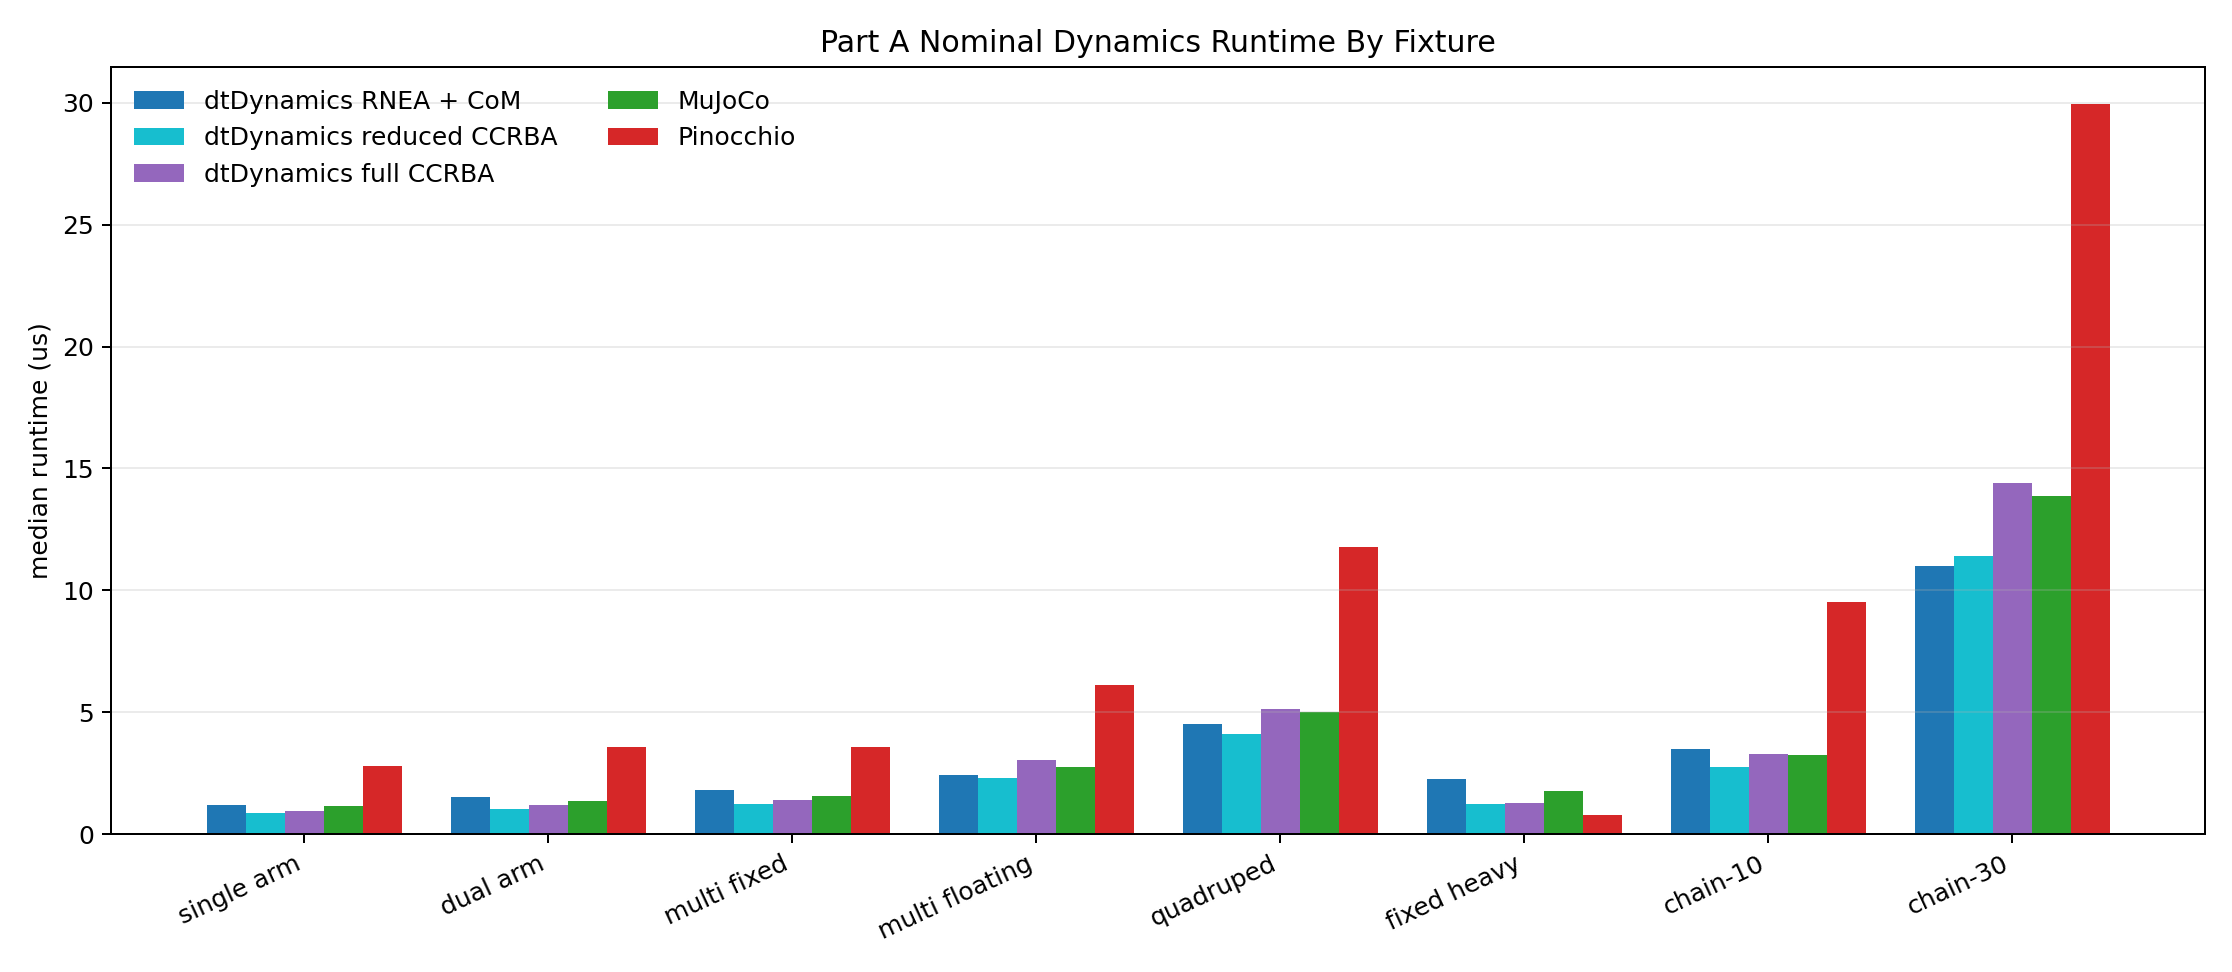
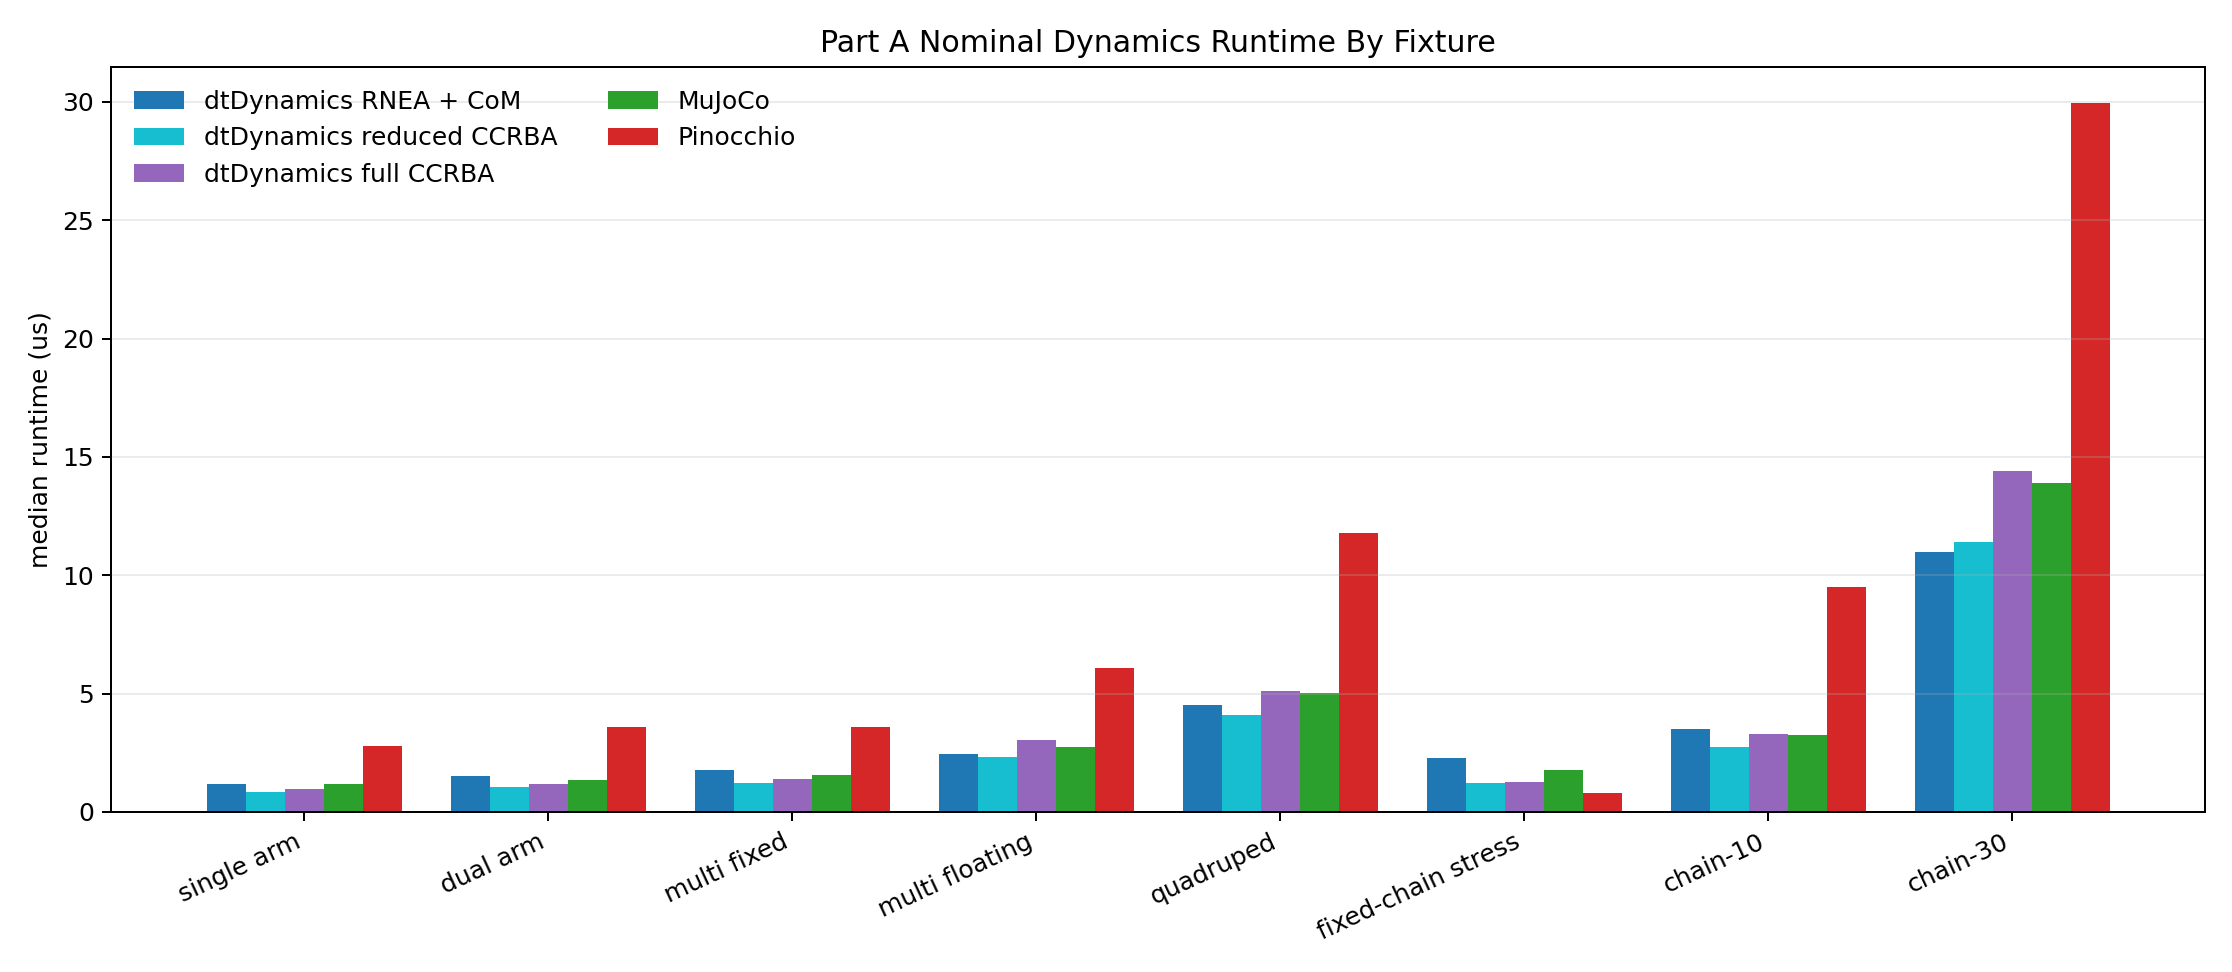
docs: clarify fixed-chain benchmark semantics

diff --git a/tools/plot_benchmark_results.py b/tools/plot_benchmark_results.py
@@ -138,7 +138,7 @@ def fixture_label(name):
         "multi_robot_fixed_base": "multi fixed",
         "multi_robot_floating_base": "multi floating",
         "quadruped_floating_base": "quadruped",
-        "fixed_body_heavy": "fixed heavy",
+        "fixed_body_heavy": "fixed-chain stress",
         "serial_chain_10": "chain-10",
         "serial_chain_30": "chain-30",
     }

diff --git a/docs/benchmark-results.md b/docs/benchmark-results.md
@@ -84,6 +84,12 @@ The native CSV `scope` column prevents the three package-native calls from being
 | serial_chain_10 | 3.501 / 3.719 | 2.730 / 2.853 | 3.279 / 3.425 | 3.251 / 3.344 | 9.502 / 9.684 |
 | serial_chain_30 | 10.999 / 13.963 | 11.388 / 14.573 | 14.417 / 19.076 | 13.887 / 16.153 | 29.965 / 32.565 |
 
+### Why `fixed_body_heavy` differs
+
+`fixed_body_heavy` is a fixed-topology stress fixture, not a representative high-DOF robot. Its canonical `nbody=11`, `nq=1`, `nv=1` model contains the world, a world-fixed base, eight nested fixed mounts, and one terminal revolute link. The base has mass 4.0, each fixed mount has mass 0.05, and the terminal link has mass 1.2. The fixture tests whether an engine handles a long welded/fixed-body chain correctly even though only the final joint contributes a generalized coordinate.
+
+Native dtDynamics and the MuJoCo fixture retain that nested body topology. The hand-built Pinocchio reference instead sums the eight fixed offsets into one placement and instantiates only the terminal revolute body; it does not traverse eight separate fixed mounts. The `nbody=11` shown for its row is the canonical fixture count used as report metadata, not Pinocchio's internal recursion count. That representation difference explains why Pinocchio is unusually fast for this fixture. Treat its timing as engine-specific fixed-body representation behavior, not as a same-morphology throughput comparison. Joint-space comparable quantities remain validation targets, while fixed-base centroidal rows that are not semantically equivalent are already emitted as `status=skipped`.
+
 ### Floating-base quadruped states
 
 | State | RNEA + CoM median / p99 us | Reduced CCRBA median / p99 us | Full CCRBA median / p99 us | MuJoCo median / p99 us | Pinocchio median / p99 us |
@@ -93,21 +99,6 @@ The native CSV `scope` column prevents the three package-native calls from being
 | nonzero_velocity | 4.711 / 4.967 | 5.464 / 5.658 | 6.466 / 6.861 | 5.610 / 5.792 | 12.104 / 14.378 |
 
 For all three native scopes, mass-matrix symmetry and `nonlinTorq = coriolisTorq + gravityTorq` consistency errors were zero at benchmark output precision. Reduced/full CCRBA additionally reported zero centroidal-momentum consistency error; full CCRBA also reported zero CoM-velocity consistency error.
-
-### Seven-batch spread for the questioned rows
-
-The current central values are medians across seven batch-level medians/p99 values. The min/median/max spread below makes scheduler/frequency sensitivity visible instead of hiding it:
-
-| Path | Fixture | Batch median min / median / max us | Batch p99 min / median / max us |
-|---|---|---:|---:|
-| Reduced CCRBA | multi_robot_floating_base | 2.290 / 2.301 / 2.314 | 2.426 / 2.451 / 2.501 |
-| Full CCRBA | multi_robot_floating_base | 3.021 / 3.042 / 3.080 | 3.145 / 3.183 / 5.078 |
-| Reduced CCRBA | serial_chain_30 | 11.299 / 11.388 / 11.568 | 11.603 / 14.573 / 16.715 |
-| Full CCRBA | serial_chain_30 | 14.258 / 14.417 / 14.475 | 17.065 / 19.076 / 20.828 |
-| Full CCRBA | quadruped_floating_base | 5.067 / 5.116 / 5.189 | 5.360 / 7.552 / 8.408 |
-| Pinocchio | quadruped_floating_base | 11.044 / 11.784 / 13.109 | 12.162 / 13.663 / 16.854 |
-
-All 24 fixture/state central medians preserve the expected ordering: reduced CCRBA is faster than full CCRBA. The earlier reduced/full inversion and the 13.674 us multi-floating full-CCRBA median did not reproduce under fixed CPU affinity and repeated batches.
 
 #### Nominal runtime by fixture
 

diff --git a/docs/manual/benchmarks.md b/docs/manual/benchmarks.md
@@ -22,6 +22,8 @@ The same Part A timing figures include MuJoCo and Pinocchio reference call seque
 
 The native CSV `scope` column distinguishes all three native rows. Historical CSVs without `scope` are interpreted as full CCRBA. RNEA reports centroidal-matrix and CoM-velocity consistency as `nan`; reduced CCRBA validates centroidal momentum but reports CoM-velocity consistency as `nan`; full CCRBA validates both.
 
+`fixed_body_heavy` is a one-DOF fixed-topology stress fixture: the canonical 11-body morphology contains a world-fixed base, eight nested fixed mounts, and one terminal revolute link. Native dtDynamics and MuJoCo retain the nested body topology. The hand-built Pinocchio reference folds the fixed offsets into the terminal joint placement and therefore performs less body-recursion work; its timing is representation-specific rather than a same-morphology throughput comparison. The reported `nbody=11` remains the canonical fixture metadata.
+
 ### Part B: LeoQuad controller scope
 
 The controller-shaped stage uses
